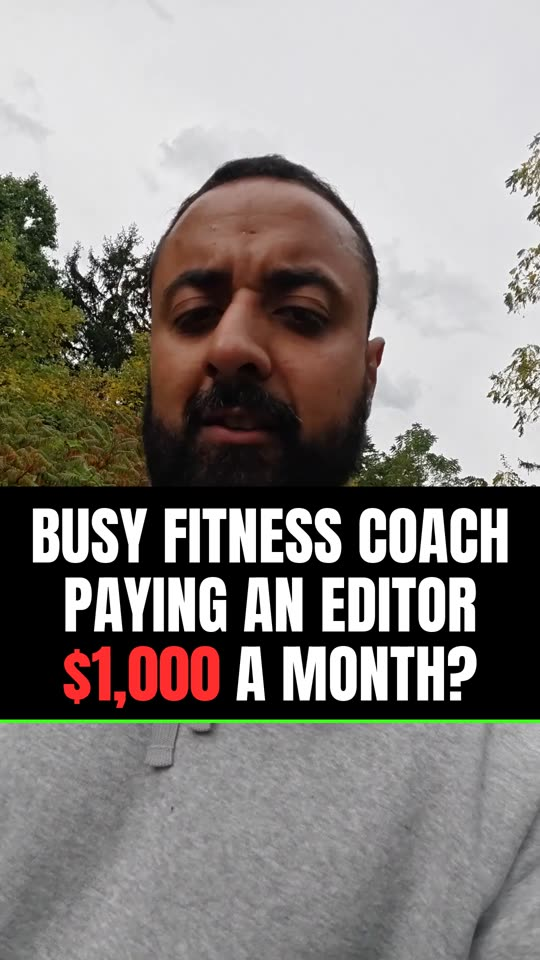
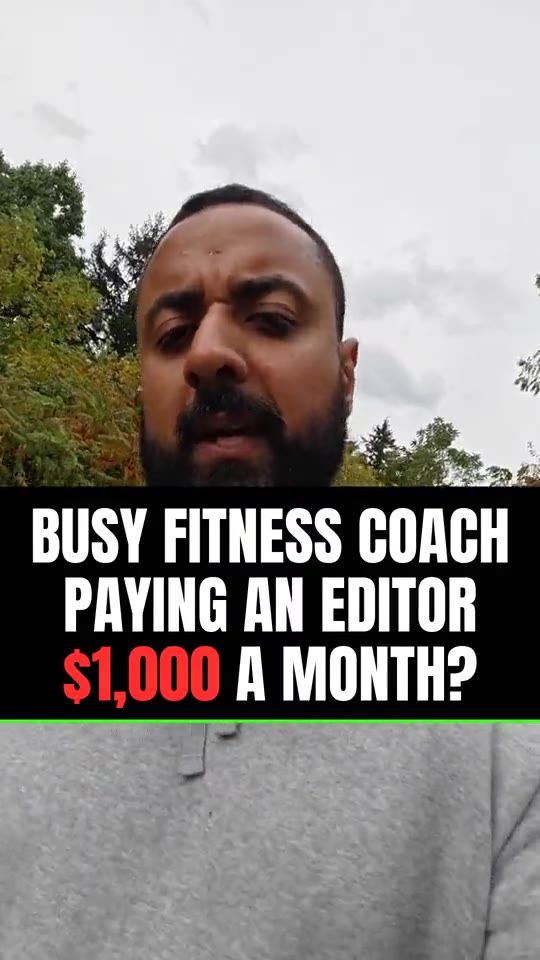
Hero: ad01; proof: raw recording + one new edit; Bedros photo crop

diff --git a/index.html b/index.html
@@ -35,6 +35,13 @@ h3{font-size:20px;margin:0 0 6px}
 .vsl{position:relative;max-width:380px;margin:0 auto 28px;border-radius:14px;overflow:hidden;border:2px solid var(--line);background:#000;aspect-ratio:9/16}
 .vsl video{width:100%;height:100%;object-fit:cover}
 .vsl .badge{position:absolute;left:10px;top:10px;background:#000c;color:var(--lime);font-size:12px;font-weight:800;padding:5px 9px;border-radius:6px;letter-spacing:.06em}
+.proofstep{max-width:720px;margin:0 auto 34px}
+.vcard{position:relative;display:block;border-radius:14px;overflow:hidden;border:2px solid var(--line);background:#000;aspect-ratio:16/9;margin:6px 0 4px}
+.vcard img{width:100%;height:100%;object-fit:cover}
+.vcard .badge{position:absolute;left:10px;top:10px;background:#000c;color:var(--lime);font-size:12px;font-weight:800;padding:5px 9px;border-radius:6px;letter-spacing:.06em}
+.vcard .play{position:absolute;left:50%;top:50%;width:72px;height:72px;margin:-36px 0 0 -36px;border-radius:50%;background:#000a;border:3px solid #fff}
+.vcard .play:after{content:"";position:absolute;left:28px;top:20px;border-left:24px solid #fff;border-top:16px solid transparent;border-bottom:16px solid transparent}
+.vcard:hover{border-color:var(--lime)}
 .btn{display:inline-block;background:var(--lime);color:#0b0b0b;font-weight:800;font-size:19px;text-decoration:none;padding:18px 30px;border-radius:12px;box-shadow:0 0 0 0 #39ff1466;transition:transform .15s,box-shadow .2s}
 .btn:hover{transform:translateY(-2px);box-shadow:0 8px 30px #39ff1440}
 .micro{font-size:14px;color:var(--mute);margin-top:12px;max-width:520px;margin-left:auto;margin-right:auto}
@@ -61,7 +68,7 @@ h3{font-size:20px;margin:0 0 6px}
 .cap{font-size:14px;color:var(--mute);text-align:center;margin-top:12px}
 .map{border-radius:14px;border:1px solid var(--line);margin:22px 0 12px}
 .mm{display:grid;grid-template-columns:repeat(3,1fr);gap:10px;margin-top:22px}
-.mm img{border-radius:12px;border:1px solid var(--line);aspect-ratio:4/5;object-fit:cover;width:100%}
+.mm img{border-radius:12px;border:1px solid var(--line);aspect-ratio:4/5;object-fit:cover;object-position:center top;width:100%}
 .pages{display:grid;grid-template-columns:repeat(4,1fr);gap:10px}
 .pages img{border-radius:10px;border:1px solid var(--line);aspect-ratio:9/11;object-fit:cover;object-position:top;width:100%}
 .math{font-size:clamp(20px,3vw,26px);font-weight:600}
@@ -119,10 +126,9 @@ fbq('track','PageView');
   <p class="prehead">Busy fitness coach paying an editor $1,000 a month? Watch this.</p>
   <h1>Record once. Say <span class="lime" style="white-space:nowrap">"one shot."</span><br>Your week of content is done.</h1>
   <p class="sub">Reels, a full YouTube edit, thumbnails, titles, SEO and scheduling, all from 1 raw video. Built by a full-time fitness coach who runs his business on it every day.</p>
-  <!-- SWAP: replace this reel with Ketan's demo video once recorded -->
   <div class="vsl">
-    <span class="badge">MADE BY ONE-SHOT</span>
-    <video src="assets/survive-on-1660.mp4" poster="assets/survive-on-1660.jpg" controls playsinline preload="metadata"></video>
+    <span class="badge">WATCH: HOW IT WORKS</span>
+    <video src="assets/hero-ad01.mp4" poster="assets/hero-ad01.jpg" controls playsinline preload="metadata"></video>
   </div>
   <a class="btn" data-cta="hero" href="#offer">Install it for me</a>
   <p class="micro">90-minute setup call with me. Not satisfied? You get every dollar back except $297 for the call.</p>
@@ -183,6 +189,23 @@ fbq('track','PageView');
 <section>
   <div class="eyebrow">Proof</div>
   <h2>1 recording. <span class="lime">One-shot.</span></h2>
+  <div class="proofstep">
+    <div class="eyebrow">Step 1: the raw recording</div>
+    <a class="vcard" href="https://youtu.be/XPcntMEvNbQ" target="_blank" rel="noopener">
+      <img src="assets/proof-raw.jpg" alt="Ketan in his kitchen, the raw unedited full day of eating recording" loading="lazy">
+      <span class="badge">RAW, UNEDITED</span>
+      <span class="play" aria-hidden="true"></span>
+    </a>
+    <p class="cap" style="text-align:left">This is the raw footage. Totally unedited. No intro, no outro, no cuts in the middle, no before and after photos. Nothing.</p>
+    <p>Look at the raw footage above first. From that 1 recording, one-shot made 3 new YouTube edits, 5 reels, 11 thumbnails and 9 titles.</p>
+    <div class="eyebrow" style="margin-top:28px">Step 2: one of the 3 YouTube edits</div>
+    <a class="vcard" href="https://youtu.be/mbhbKfKzaPk" target="_blank" rel="noopener">
+      <img src="assets/proof-edit-v1.jpg" alt="The finished YouTube edit made from the raw recording" loading="lazy">
+      <span class="badge">MADE BY ONE-SHOT</span>
+      <span class="play" aria-hidden="true"></span>
+    </a>
+    <p class="cap" style="text-align:left">Same footage, after one-shot. It now has the intro, the outro, the mid-video content, captions and the before and after photos. The titles and thumbnails are A/B tested on YouTube too.</p>
+  </div>
   <p>This is my 1660 calorie full day of eating video. One recording became:</p>
   <div class="stats">
     <div class="stat"><b>3</b><span>new YouTube edits</span></div>
